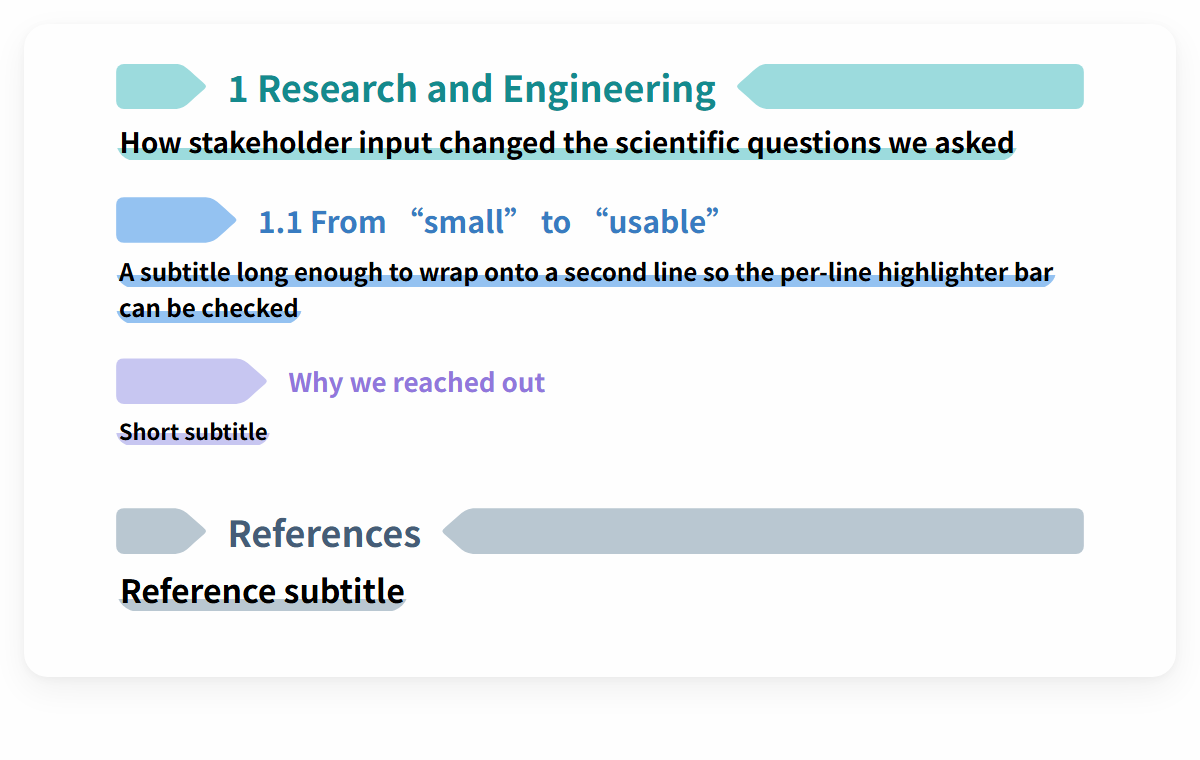
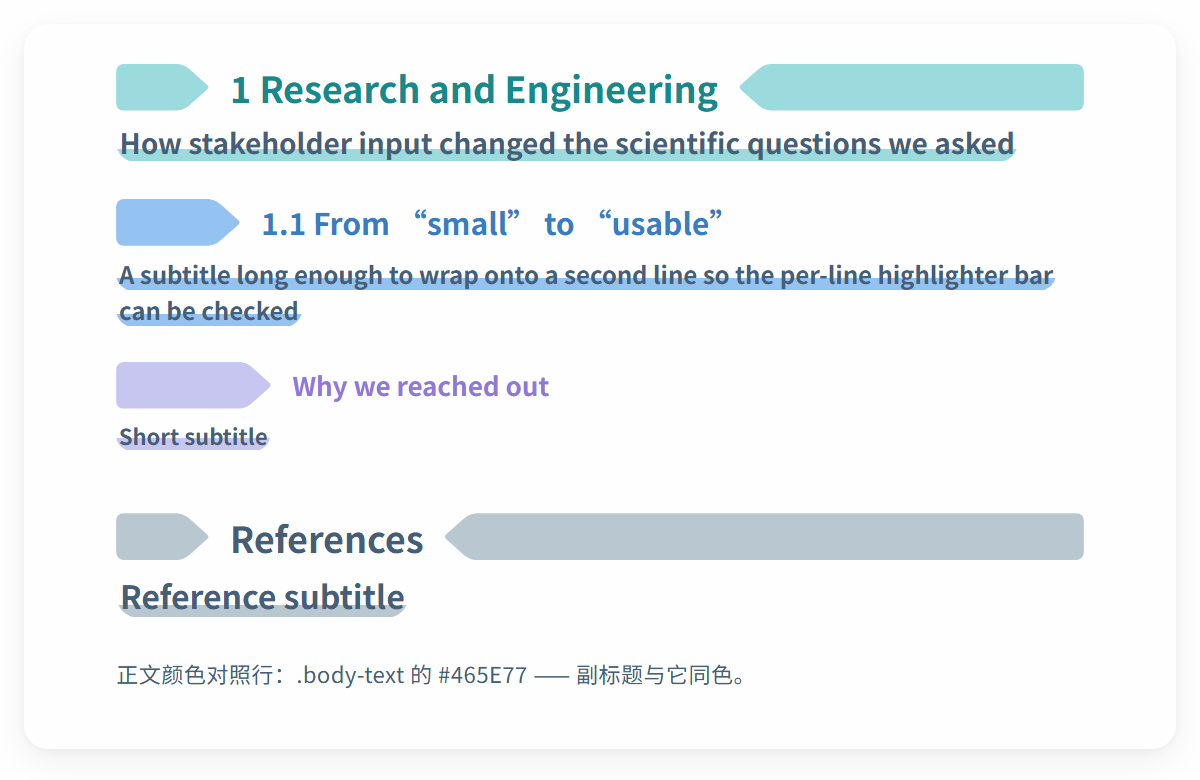
title

diff --git a/static/description/description.css b/static/description/description.css
@@ -1441,7 +1441,7 @@ mark {
    14. 标题副标题（.heading-sub）
    ========================================================
    给每一级标题（.heading-1 / .heading-2 / .heading-3，以及同属一级的
-   .heading-reference）在主标题下方加一条副标题：文字颜色跟随本行主标题，
+   .heading-reference）在主标题下方加一条副标题：文字颜色用正文色 #465E77，
    底色是主标题那枚装饰矩形的颜色（H1 #9CDBDD / H2 #94C2F1 / H3 #C7C6F1 /
    Reference #B9C7D1，见第 4 节 ::before 的 background-color），形状不是
    裹住整行文字的圆角矩形，而是像荧光笔一样横着画在文字【下方】的一条
@@ -1526,9 +1526,10 @@ mark {
     font-family: inherit;        /* 字体、字号、字重都跟着所在行（14.3 按级给） */
     font-size: inherit;
     font-weight: inherit;
-    /* 这里不再写 color：副标题的字色直接继承主标题（.heading-1/2/3 与
-       .heading-reference 的 color），与各自的主标题一致，
-       不再是被色块反衬的白字。 */
+    /* 文字颜色固定用正文色 #465E77（与 .body-text 的 color 一致），
+       不再跟随各级主标题的字色 —— 色带上的字与正文同色，读起来是一体的。
+       这一条会盖掉从 .heading-1/2/3 继承来的标题色，是刻意的。 */
+    color: #465E77;
     /* 荧光笔色带：一层 linear-gradient 当背景。
        下半段 = 色带本身（厚度 --heading-sub-thick），上半段全透明，
        于是色带只出现在文字下方，文字笔画压在它上面。
